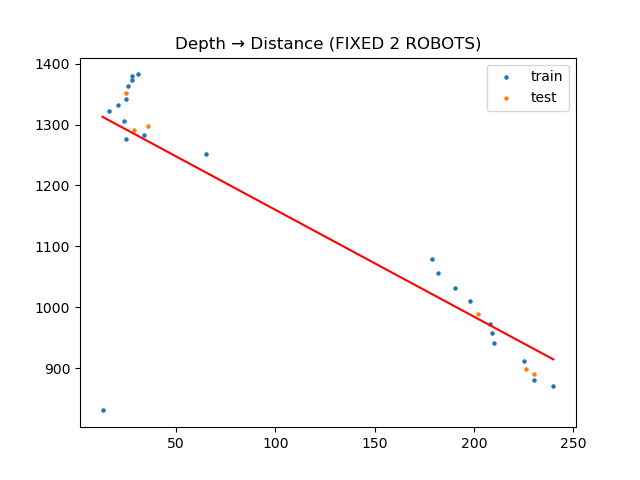
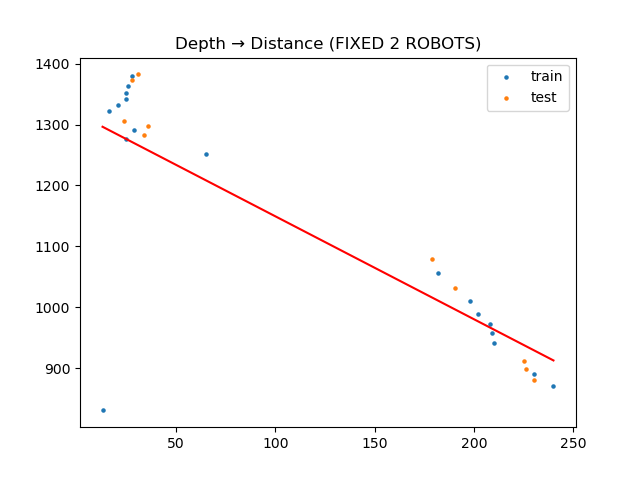
bias+scale

diff --git a/real_depth.py b/real_depth.py
@@ -197,7 +197,7 @@ if __name__ == "__main__":
 
     np.random.shuffle(data)
 
-    split = int(len(data) * 0.8)
+    split = int(len(data) * 0.6)
 
     train = data[:split]
     test = data[split:]
